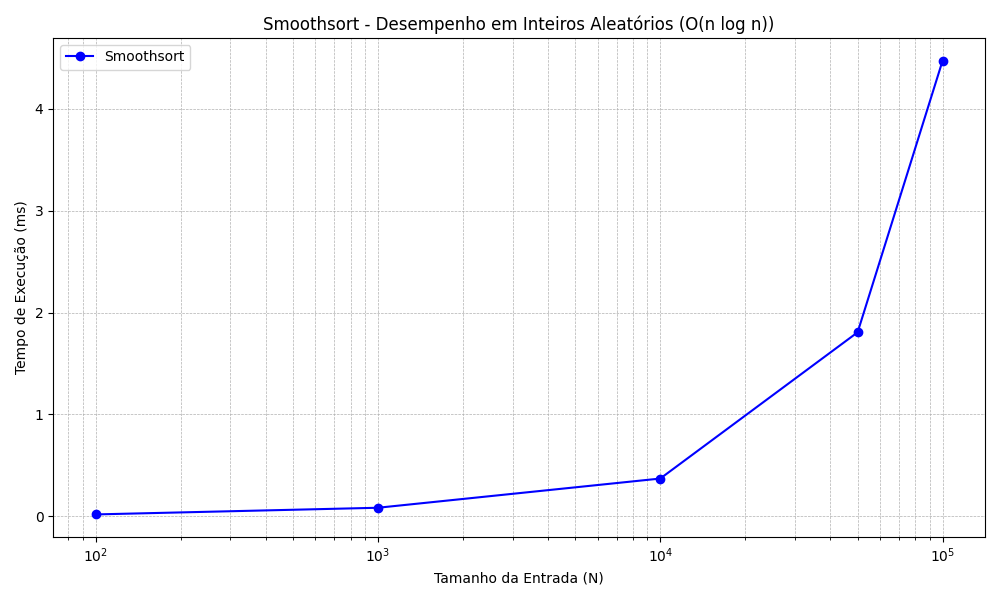
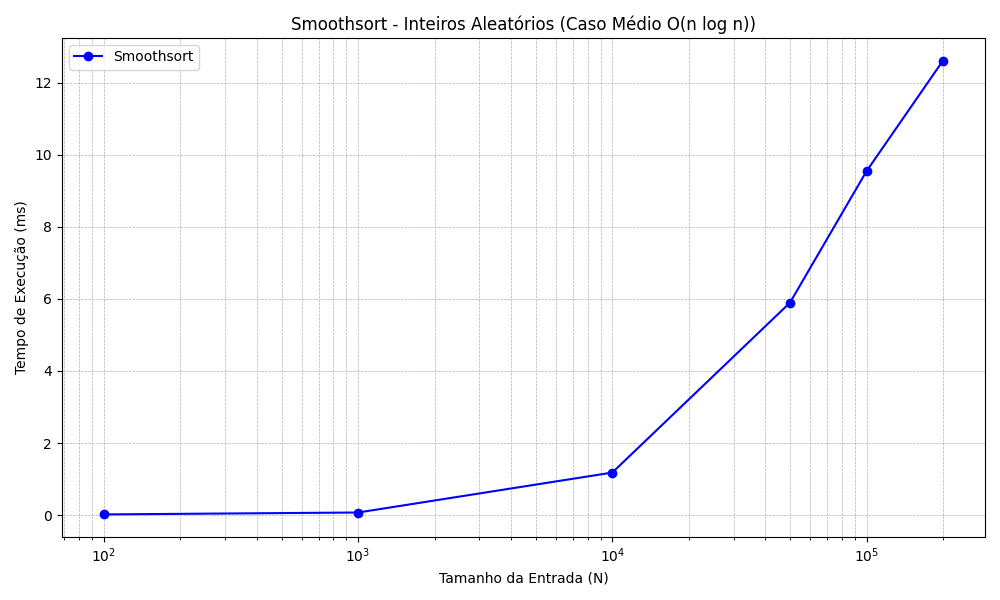
Últimos ajustes PRONTOS

diff --git a/testes_desempenho.py b/testes_desempenho.py
@@ -138,27 +138,39 @@ if __name__ == "__main__":
         os.makedirs("graficos")
 
     # Tamanhos de entrada a serem testados (REQUISITO 2.2)
-    TAMANHOS_TESTE = [100, 1_000, 10_000, 50_000, 100_000] 
+    TAMANHOS_TESTE = [100, 1_000, 10_000, 50_000, 100_000, 200_000] 
     
-    # --- CENÁRIO 1: INTEIROS ALEATÓRIOS (CASO MÉDIO) ---
-    tempos_aleatorios_int = medir_desempenho(smoothsort, TAMANHOS_TESTE, "int", "aleatório")
-    gerar_grafico(
-        TAMANHOS_TESTE, 
-        tempos_aleatorios_int, 
-        "Smoothsort - Desempenho em Inteiros Aleatórios (O(n log n))",
-        "smoothsort_inteiros_aleatorios.png"
-    )
-    
-    # --- CENÁRIO 2: MELHOR CASO (JÁ ORDENADO) ---
+    # --- CENÁRIO 1: MELHOR CASO (JÁ ORDENADO) ---
     tempos_ordenados_int = medir_desempenho(smoothsort, TAMANHOS_TESTE, "int", "ordenado")
     gerar_grafico(
         TAMANHOS_TESTE, 
         tempos_ordenados_int, 
-        "Smoothsort - Desempenho em Inteiros Já Ordenados (Melhor Caso O(n))",
-        "smoothsort_melhor_caso_ordenado.png"
+        "Smoothsort - Inteiros Já Ordenados (Melhor Caso O(n))",
+        "smoothsort_inteiros_melhor_caso.png"
     )
     
-    # --- CENÁRIO 3: TIPOS DE DADOS - STRINGS ---
+    # --- CENÁRIO 2: INTEIROS ALEATÓRIOS (CASO MÉDIO) ---
+    tempos_aleatorios_int = medir_desempenho(smoothsort, TAMANHOS_TESTE, "int", "aleatório")
+    gerar_grafico(
+        TAMANHOS_TESTE, 
+        tempos_aleatorios_int, 
+        "Smoothsort - Inteiros Aleatórios (Caso Médio O(n log n))",
+        "smoothsort_inteiros_aleatorios.png"
+    )
+
+    # 3. PIOR CASO (Inteiros Inversamente Ordenados) - Espera-se O(n log n)
+    # Chama a função 'medir_desempenho' com o parâmetro cenario="inverso"
+    tempos_inversos_int = medir_desempenho(smoothsort, TAMANHOS_TESTE, "int", "inverso") 
+    
+    # Gera o gráfico específico para o pior caso
+    gerar_grafico(
+        TAMANHOS_TESTE, 
+        tempos_inversos_int, 
+        "Smoothsort - Inteiros Inversamente Ordenados (Pior Caso O(n log n))",
+        "smoothsort_inteiros_pior_caso.png" # NOVO NOME DE ARQUIVO
+    )
+    
+    # --- CENÁRIO 4: TIPOS DE DADOS - STRINGS ---
     tempos_strings = medir_desempenho(smoothsort, TAMANHOS_TESTE, "str", "aleatório")
     gerar_grafico(
         TAMANHOS_TESTE, 
@@ -167,7 +179,7 @@ if __name__ == "__main__":
         "smoothsort_strings_aleatorias.png"
     )
 
-    # --- CENÁRIO 4: TIPOS DE DADOS - OBJETOS ---
+    # --- CENÁRIO 5: TIPOS DE DADOS - OBJETOS ---
     tempos_objetos = medir_desempenho(smoothsort, TAMANHOS_TESTE, "obj", "aleatório")
     gerar_grafico(
         TAMANHOS_TESTE, 

diff --git a/smoothsort.py b/smoothsort.py
@@ -1,7 +1,7 @@
 
 from typing import List, Any
 
-# --- NÚMEROS DE LEONARDO ---
+# --- NÚMEROS DE LEONARDO (FIBONACCI)---
 
 def leonardo(k):
     """
@@ -11,13 +11,13 @@ def leonardo(k):
     """
     if k < 0:
         return 0
-    if k == 0 or k == 1:
+    if k == 0 or k == 1: 
         return 1
     
     # Implementação iterativa para melhor desempenho
-    a, b = 1, 1
+    a, b = 1, 1   #a representa L(k-2) e b representa L(k-1)
     for _ in range(2, k + 1):
-        a, b = b, a + b + 1
+        a, b = b, a + b + 1 #que é exatamente a fórmula onde o 'a + b + 1' => L(k) = L(k−1) + L(k−2) + 1
         
     return b
 
@@ -36,7 +36,7 @@ def _sift(arr: List[Any], i: int, head: int, p: int, is_greater):
     """
     # p é o índice do número de Leonardo L(k) que define o tamanho da árvore.
     k = 0
-    while leonardo(k) < head - i:
+    while leonardo(k) < head - i: #head - i ==> tamanho (em elementos) da árvore que começa em i
         k += 1
 
     while k > 1:
@@ -54,7 +54,7 @@ def _sift(arr: List[Any], i: int, head: int, p: int, is_greater):
         rc_idx = i - left_child_size - right_child_size
         
         # O maior valor entre os filhos (lc_idx ou rc_idx)
-        max_child_idx = lc_idx
+        max_child_idx = lc_idx #assumindo que o maior filho é o esquerdo
         
         # Verifica se o filho da direita existe e é maior que o da esquerda
         if rc_idx >= head and is_greater(arr[rc_idx], arr[lc_idx]):

diff --git a/README.md b/README.md
@@ -6,11 +6,11 @@ Este projeto tem como objetivo analisar a complexidade computacional do algoritm
 
 O Smoothsort é uma variação adaptativa e estável do Heapsort, notável por sua eficiência em listas que já estão **parcialmente ordenadas**. Ele mantém uma complexidade de pior caso de $O(n \log n)$, mas pode se aproximar de $O(n)$ em casos otimistas (Melhor Caso).
 
-Para construir seu *heap* suave, o Smoothsort utiliza os **Números de Leonardo** ($L^^k$).
+Para construir seu *heap* suave, o Smoothsort utiliza os **Números de Leonardo**.
 
 ## 2. Requisitos de Execução
 
-* **Linguagem:** Python 3.x
+* **Linguagem:** Python 3.14.0
 * **Bibliotecas Necessárias:**
     * `matplotlib`: Para a geração dos gráficos de desempenho.
     * `timeit` ou `time`: Para medição de tempo precisa.
